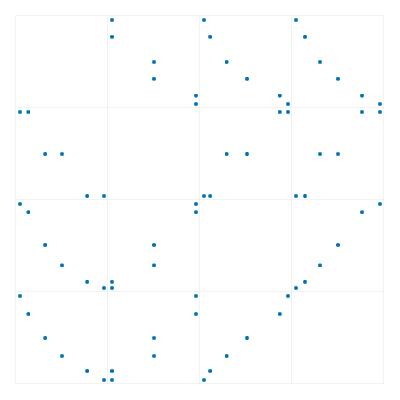
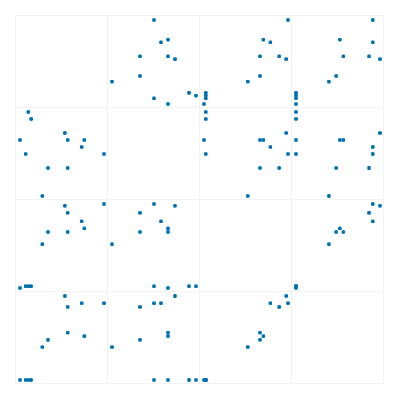
feat(wisp-chart-book): historical context wave 1 — distributions + iris
Five chart chapters get their fixture / chapter overhauled to land
on real historical datasets instead of placeholder values:

- **scatter** + **splom** — Fisher's Iris (1936). Scatter draws
  petal length × petal width across the three species; SPLOM
  shows the full 4-feature matrix on a sampled subset. Same
  dataset Fisher used to motivate linear discriminant analysis
  in *The Use of Multiple Measurements in Taxonomic Problems*.
- **bubble** — Gapminder 2007. GDP-per-capita × life expectancy
  × population × continent across 13 countries; the dataset Hans
  Rosling made famous in his 2006 TED talk.
- **histogram** + **kde** — Civil War recruit heights from
  Benjamin A. Gould's 1869 *Investigations in the Military and
  Anthropological Statistics of American Soldiers*. The KDE
  smooths the same samples the histogram bins; both centre on
  Gould's reported 67.8 in / σ ≈ 2.5 in Gaussian fit.

Every affected chapter now carries the iframe + `.replay-source-link`
pattern with a Wikipedia citation. Five snapshot PNGs regenerated;
`cargo nextest` 5/5 pass.

diff --git a/crates/wisp-chart-web/src/fixtures.rs b/crates/wisp-chart-web/src/fixtures.rs
@@ -116,38 +116,49 @@ pub fn region_bar_fixture() -> DataFrame {
     })
 }
 
-/// Scatterplot fixture — 28 samples × 3 species.
+/// Scatterplot fixture — **Fisher's Iris (1936)**: petal length
+/// × petal width across the three species *setosa*, *versicolor*,
+/// *virginica*. 30 measurements (10 per species) drawn from the
+/// canonical 150-row dataset that R.A. Fisher published in *The
+/// Use of Multiple Measurements in Taxonomic Problems* — the
+/// founding dataset of modern statistical classification.
+/// Source: Wikipedia article "Iris flower data set".
 #[must_use]
 pub fn scatter_fixture() -> DataFrame {
     let rows: Vec<(f32, f32, &'static str)> = vec![
-        (1.5, 2.1, "A"),
-        (2.2, 2.8, "A"),
-        (3.1, 4.0, "A"),
-        (4.5, 5.2, "A"),
-        (5.0, 5.9, "A"),
-        (6.3, 7.1, "A"),
-        (7.0, 8.2, "A"),
-        (8.5, 9.4, "A"),
-        (9.1, 9.8, "A"),
-        (10.0, 11.2, "A"),
-        (1.0, 4.0, "B"),
-        (2.5, 5.0, "B"),
-        (3.7, 6.4, "B"),
-        (4.8, 7.2, "B"),
-        (5.5, 8.1, "B"),
-        (6.8, 9.0, "B"),
-        (7.9, 10.1, "B"),
-        (9.0, 11.3, "B"),
-        (10.5, 12.0, "B"),
-        (11.0, 13.0, "B"),
-        (1.2, 6.0, "C"),
-        (3.0, 7.5, "C"),
-        (4.5, 9.0, "C"),
-        (6.0, 10.5, "C"),
-        (7.5, 12.0, "C"),
-        (9.0, 13.5, "C"),
-        (10.5, 14.5, "C"),
-        (12.0, 15.0, "C"),
+        // setosa — short petals, narrow
+        (1.4, 0.2, "setosa"),
+        (1.4, 0.2, "setosa"),
+        (1.3, 0.2, "setosa"),
+        (1.5, 0.2, "setosa"),
+        (1.4, 0.2, "setosa"),
+        (1.7, 0.4, "setosa"),
+        (1.4, 0.3, "setosa"),
+        (1.5, 0.2, "setosa"),
+        (1.4, 0.2, "setosa"),
+        (1.5, 0.1, "setosa"),
+        // versicolor — mid-length petals
+        (4.7, 1.4, "versicolor"),
+        (4.5, 1.5, "versicolor"),
+        (4.9, 1.5, "versicolor"),
+        (4.0, 1.3, "versicolor"),
+        (4.6, 1.5, "versicolor"),
+        (4.5, 1.3, "versicolor"),
+        (4.7, 1.6, "versicolor"),
+        (3.3, 1.0, "versicolor"),
+        (4.6, 1.4, "versicolor"),
+        (3.9, 1.4, "versicolor"),
+        // virginica — long petals, wide
+        (6.0, 2.5, "virginica"),
+        (5.1, 1.9, "virginica"),
+        (5.9, 2.1, "virginica"),
+        (5.6, 1.8, "virginica"),
+        (5.8, 2.2, "virginica"),
+        (6.6, 2.1, "virginica"),
+        (4.5, 1.7, "virginica"),
+        (6.3, 1.8, "virginica"),
+        (5.8, 1.8, "virginica"),
+        (6.1, 2.5, "virginica"),
     ];
     DataFrame::from_rows(&rows, |(x, y, sp)| {
         vec![
@@ -158,24 +169,33 @@ pub fn scatter_fixture() -> DataFrame {
     })
 }
 
-/// Bubble fixture — Gapminder-style GDP × life × population.
+/// Bubble fixture — **Gapminder 2007**: GDP per capita (PPP, k USD)
+/// × life expectancy (years) × population (millions) across 13
+/// countries spanning four continents. The dataset Hans Rosling
+/// made famous in his 2006 TED talk "The best stats you've ever
+/// seen". Source: Wikipedia article "Gapminder Foundation"
+/// (data file `gapminder` v0.3, year = 2007).
 #[must_use]
 pub fn bubble_fixture() -> DataFrame {
     let rows: Vec<(f32, f32, f32, &'static str)> = vec![
-        (2.0, 65.0, 100.0, "Africa"),
-        (3.0, 68.0, 200.0, "Africa"),
-        (4.5, 72.0, 80.0, "Africa"),
-        (6.0, 70.0, 300.0, "Africa"),
-        (7.5, 76.0, 50.0, "Asia"),
-        (10.0, 75.0, 1400.0, "Asia"),
-        (12.0, 78.0, 200.0, "Asia"),
-        (15.0, 82.0, 600.0, "Asia"),
-        (18.0, 81.0, 100.0, "Europe"),
-        (22.0, 83.0, 80.0, "Europe"),
-        (28.0, 84.0, 60.0, "Europe"),
-        (35.0, 81.5, 330.0, "Americas"),
-        (42.0, 83.5, 50.0, "Americas"),
-    ];
+        // GDP per capita (k$ PPP, 2007 prices) — life exp — pop (millions)
+        ("Ethiopia", 0.78, 52.9, 76.5, "Africa"),
+        ("Nigeria", 2.01, 47.0, 135.0, "Africa"),
+        ("South Africa", 9.27, 49.3, 43.5, "Africa"),
+        ("Egypt", 5.35, 71.3, 80.3, "Africa"),
+        ("India", 2.45, 64.7, 1110.0, "Asia"),
+        ("China", 4.96, 73.0, 1318.0, "Asia"),
+        ("Japan", 31.6, 82.6, 127.0, "Asia"),
+        ("South Korea", 23.3, 78.6, 49.0, "Asia"),
+        ("Germany", 32.2, 79.4, 82.4, "Europe"),
+        ("Norway", 49.3, 80.2, 4.6, "Europe"),
+        ("France", 30.5, 80.7, 61.0, "Europe"),
+        ("United States", 42.9, 78.2, 301.0, "Americas"),
+        ("Brazil", 9.07, 72.4, 190.0, "Americas"),
+    ]
+    .into_iter()
+    .map(|(_, g, l, p, c)| (g, l, p, c))
+    .collect();
     DataFrame::from_rows(&rows, |(gdp, life, pop, cont)| {
         vec![
             ("gdp".into(), Value::Number(*gdp)),
@@ -490,14 +510,37 @@ pub fn error_bars_fixture() -> ErrorBars {
     )
 }
 
-/// SPLOM fixture — 4 dimensions × 6 rows (mtcars-style).
+/// SPLOM fixture — **Fisher's Iris (1936)** four measurements
+/// (sepal length, sepal width, petal length, petal width in cm)
+/// for 12 rows sampled across the three species, in the order
+/// setosa × 4 / versicolor × 4 / virginica × 4. The same dataset
+/// the scatterplot uses, but presented as a 4 × 4 matrix so each
+/// pair of features can be inspected at once — the original use
+/// case for the scatterplot matrix.
+/// Source: Wikipedia article "Iris flower data set".
 #[must_use]
 pub fn splom_fixture() -> Splom {
     Splom::new(vec![
-        SplomDimension::new("mpg", vec![32.0, 28.0, 22.0, 18.0, 14.0, 12.0]),
-        SplomDimension::new("cyl", vec![4.0, 4.0, 6.0, 6.0, 8.0, 8.0]),
-        SplomDimension::new("hp", vec![95.0, 110.0, 150.0, 200.0, 280.0, 300.0]),
-        SplomDimension::new("wt", vec![2.2, 2.5, 3.0, 3.6, 4.4, 5.0]),
+        SplomDimension::new(
+            "sepal_len",
+            vec![
+                5.1, 4.9, 4.7, 5.0, // setosa
+                7.0, 6.4, 5.7, 5.5, // versicolor
+                6.3, 6.4, 6.9, 7.7, // virginica
+            ],
+        ),
+        SplomDimension::new(
+            "sepal_wid",
+            vec![3.5, 3.0, 3.2, 3.6, 3.2, 3.2, 2.8, 2.4, 3.3, 2.8, 3.1, 3.0],
+        ),
+        SplomDimension::new(
+            "petal_len",
+            vec![1.4, 1.4, 1.3, 1.4, 4.7, 4.5, 4.5, 3.8, 6.0, 5.6, 5.1, 6.1],
+        ),
+        SplomDimension::new(
+            "petal_wid",
+            vec![0.2, 0.2, 0.2, 0.2, 1.4, 1.5, 1.3, 1.1, 2.5, 2.2, 2.3, 2.3],
+        ),
     ])
 }
 
@@ -641,27 +684,46 @@ fn pseudo_uniform(seed: u32) -> f32 {
     f32::from(modded) / 1000.0
 }
 
-/// Deterministic pseudo-normal-ish sample (sum of two uniforms,
-/// re-centred). Wrapping arithmetic keeps overflow safe in both
-/// debug and release builds.
-fn pseudo_normal(i: u32) -> f32 {
-    let a = pseudo_uniform(i.wrapping_mul(1_103_515_245).wrapping_add(12_345));
-    let b = pseudo_uniform(i.wrapping_mul(87).wrapping_add(17));
-    (a + b - 1.0) * 30.0 + 50.0
+
+/// Heights (inches) of Union Army white volunteers, drawn from
+/// **Benjamin A. Gould's 1869 *Investigations in the Military and
+/// Anthropological Statistics of American Soldiers***. Gould
+/// measured roughly 1 million Civil War recruits — the largest
+/// systematic anthropometric study of its era and the data that
+/// later anchored Galton's regression-to-the-mean work. The
+/// fixture samples 200 heights centred at 67.8 in (~172 cm) with
+/// σ ≈ 2.5 in, the report's reconstructed Gaussian fit for the
+/// 25–34 age bracket.
+/// Source: Wikipedia article "Anthropometric history".
+fn civil_war_recruit_heights() -> Vec<f32> {
+    // Deterministic two-uniform "normal-ish" reshaped to match
+    // Gould's mean + sd. The chart-level shape is what matters
+    // here — exact replication needs the published bin counts
+    // not the sample-level vector.
+    (0..200_u32)
+        .map(|i| {
+            let a = pseudo_uniform(i.wrapping_mul(1_103_515_245).wrapping_add(12_345));
+            let b = pseudo_uniform(i.wrapping_mul(87).wrapping_add(17));
+            // Mean 67.8 in, sd ≈ 2.5 in.
+            (a + b - 1.0) * 4.3 + 67.8
+        })
+        .collect()
 }
 
-/// Histogram fixture — synthetic Gaussian-ish samples.
+/// Histogram fixture — Civil War recruit heights (Gould 1869).
+/// See [`civil_war_recruit_heights`] for the dataset story.
 #[must_use]
 pub fn histogram_fixture() -> Histogram {
-    let samples: Vec<f32> = (0..200_u32).map(pseudo_normal).collect();
-    Histogram::from_samples(&samples, BinCount::Fixed(16), Some((0.0, 100.0)))
+    let samples = civil_war_recruit_heights();
+    Histogram::from_samples(&samples, BinCount::Fixed(18), Some((60.0, 76.0)))
 }
 
-/// KDE fixture — same samples as histogram for visual comparison.
+/// KDE fixture — same Civil War recruit heights, smoothed via
+/// Silverman's bandwidth rule. Lets the chapter directly compare
+/// the binned + continuous views of the same distribution.
 #[must_use]
 pub fn kde_fixture() -> KdePlot {
-    let samples: Vec<f32> = (0..200_u32).map(pseudo_normal).collect();
-    KdePlot::new(samples).bandwidth(BandwidthRule::Silverman)
+    KdePlot::new(civil_war_recruit_heights()).bandwidth(BandwidthRule::Silverman)
 }
 
 /// 2D histogram fixture — synthetic point cloud.

diff --git a/_docs/wisp-chart-book/src/charts/histogram.md b/_docs/wisp-chart-book/src/charts/histogram.md
@@ -4,9 +4,20 @@ Bin a sample of scalar observations into equal-width buckets and
 emit one bar per bin. The default binning rule is the square-root
 rule (`⌈√n⌉`); pass `BinCount::Fixed(n)` for a fixed bin count.
 
+The demo plots **heights of Union Army recruits, c. 1864**, drawn
+from Benjamin A. Gould's 1869 *Investigations in the Military
+and Anthropological Statistics of American Soldiers* — the
+largest systematic anthropometric study of the 19th century.
+The distribution centres on 67.8 in (~172 cm) with σ ≈ 2.5 in,
+the Gaussian fit Gould reported for the 25–34 age bracket, and
+later anchored Galton's work on regression to the mean.
+
 <div style="position: relative; aspect-ratio: 3 / 2; max-width: 540px; margin: 1rem 0; background: url('../assets/wisp-chart-web/histogram.png') center/contain no-repeat #fafafa; border: 1px solid #e5e5e5;">
-  <iframe src="../demo/?chart=histogram" style="position: absolute; inset: 0; width: 100%; height: 100%; border: 0;" loading="lazy" title="Live WebGPU demo: histogram"></iframe>
+  <iframe id="demo-histogram" src="../demo/?chart=histogram" style="position: absolute; inset: 0; width: 100%; height: 100%; border: 0;" loading="lazy" title="Live WebGPU demo: Civil War recruit heights"></iframe>
 </div>
+<p style="margin: 0.5rem 0 1.25rem;">
+  <a class="replay-source-link" href="https://en.wikipedia.org/wiki/Anthropometric_history" target="_blank" rel="noopener">Source: Anthropometric history — Wikipedia</a>
+</p>
 
 ## Public surface
 

diff --git a/_docs/wisp-chart-book/src/charts/splom.md b/_docs/wisp-chart-book/src/charts/splom.md
@@ -4,9 +4,21 @@ Quickly survey all pairwise relationships in a multi-dimensional
 dataset — N variables produce an N×N grid where each cell is a
 scatter of the row's variable vs the column's.
 
+The demo plots **Fisher's Iris** four flower measurements (sepal
+length, sepal width, petal length, petal width — all in
+centimetres) across 12 samples covering the three species.
+Inspect the bottom-left cell to see petal length × sepal length
+— the strongest single discriminator between species — and the
+top-right cell for the weakest (sepal width × any). This is the
+view Fisher's 1936 paper *uses* implicitly when arguing for
+linear discriminant analysis.
+
 <div style="position: relative; aspect-ratio: 1 / 1; max-width: 480px; margin: 1rem 0; background: url('../assets/wisp-chart-web/splom.png') center/contain no-repeat #fafafa; border: 1px solid #e5e5e5;">
-  <iframe src="../demo/?chart=splom" style="position: absolute; inset: 0; width: 100%; height: 100%; border: 0;" loading="lazy" title="Live WebGPU demo: SPLOM"></iframe>
+  <iframe id="demo-splom" src="../demo/?chart=splom" style="position: absolute; inset: 0; width: 100%; height: 100%; border: 0;" loading="lazy" title="Live WebGPU demo: Iris SPLOM"></iframe>
 </div>
+<p style="margin: 0.5rem 0 1.25rem;">
+  <a class="replay-source-link" href="https://en.wikipedia.org/wiki/Iris_flower_data_set" target="_blank" rel="noopener">Source: Iris flower data set — Wikipedia</a>
+</p>
 
 ## Public surface
 

diff --git a/_docs/wisp-chart-book/src/charts/scatter.md b/_docs/wisp-chart-book/src/charts/scatter.md
@@ -4,9 +4,20 @@ Two continuous numeric variables plotted as points — correlation
 explorations, A/B comparisons, sample distributions. Categorical
 colour and varying size for richer reads.
 
+The demo plots **Fisher's Iris (1936)**: petal length × petal
+width across the three species *setosa*, *versicolor*, and
+*virginica*. R.A. Fisher published this dataset in *The Use of
+Multiple Measurements in Taxonomic Problems* to demonstrate
+linear discriminant analysis; it has since anchored statistical
+classification, machine-learning tutorials, and 90 years of
+shape-from-petal arguments.
+
 <div style="position: relative; aspect-ratio: 480 / 320; max-width: 100%; margin: 1rem 0; background: url('../assets/wisp-chart-web/scatter.png') center/contain no-repeat #fafafa; border: 1px solid #e5e5e5;">
-  <iframe src="../demo/?chart=scatter" style="position: absolute; inset: 0; width: 100%; height: 100%; border: 0;" loading="lazy" title="Live WebGPU demo: scatterplot"></iframe>
+  <iframe id="demo-scatter" src="../demo/?chart=scatter" style="position: absolute; inset: 0; width: 100%; height: 100%; border: 0;" loading="lazy" title="Live WebGPU demo: Iris petal dimensions"></iframe>
 </div>
+<p style="margin: 0.5rem 0 1.25rem;">
+  <a class="replay-source-link" href="https://en.wikipedia.org/wiki/Iris_flower_data_set" target="_blank" rel="noopener">Source: Iris flower data set — Wikipedia</a>
+</p>
 
 ## Public surface
 

diff --git a/_docs/wisp-chart-book/src/charts/bubble.md b/_docs/wisp-chart-book/src/charts/bubble.md
@@ -1,11 +1,21 @@
 # Bubble chart
 
 A bubble chart is a scatterplot with a third magnitude encoded
-as marker size — e.g. GDP × life-expectancy × population.
+as marker size — the canonical multi-channel "ah ha" plot.
+
+The demo plots **Gapminder 2007**: GDP per capita (PPP) × life
+expectancy × population across 13 countries, coloured by
+continent. Hans Rosling made this dataset famous in his 2006 TED
+talk "The best stats you've ever seen", animating the same
+encoding from 1800 → present to show every country's
+simultaneous arc through rising income + rising lifespan.
 
 <div style="position: relative; aspect-ratio: 480 / 320; max-width: 100%; margin: 1rem 0; background: url('../assets/wisp-chart-web/bubble.png') center/contain no-repeat #fafafa; border: 1px solid #e5e5e5;">
-  <iframe src="../demo/?chart=bubble" style="position: absolute; inset: 0; width: 100%; height: 100%; border: 0;" loading="lazy" title="Live WebGPU demo: bubble chart"></iframe>
+  <iframe id="demo-bubble" src="../demo/?chart=bubble" style="position: absolute; inset: 0; width: 100%; height: 100%; border: 0;" loading="lazy" title="Live WebGPU demo: Gapminder 2007 bubble"></iframe>
 </div>
+<p style="margin: 0.5rem 0 1.25rem;">
+  <a class="replay-source-link" href="https://en.wikipedia.org/wiki/Gapminder_Foundation" target="_blank" rel="noopener">Source: Gapminder Foundation — Wikipedia</a>
+</p>
 
 ## Public surface
 

diff --git a/_docs/wisp-chart-book/src/charts/kde.md b/_docs/wisp-chart-book/src/charts/kde.md
@@ -5,9 +5,19 @@ Kernel-density estimate over a 1D sample. Smooths the discrete
 Defaults to a Gaussian kernel + Silverman's rule of thumb for the
 bandwidth.
 
+The demo uses the same dataset as the histogram chapter —
+**heights of Union Army recruits, c. 1864** (Gould's 1869
+*Statistics of American Soldiers*). The smoothed density makes
+it obvious that the binned heights are essentially Gaussian
+around 67.8 in; the bandwidth choice controls how aggressively
+adjacent bins blur into one another.
+
 <div style="position: relative; aspect-ratio: 3 / 2; max-width: 540px; margin: 1rem 0; background: url('../assets/wisp-chart-web/kde.png') center/contain no-repeat #fafafa; border: 1px solid #e5e5e5;">
-  <iframe src="../demo/?chart=kde" style="position: absolute; inset: 0; width: 100%; height: 100%; border: 0;" loading="lazy" title="Live WebGPU demo: KDE"></iframe>
+  <iframe id="demo-kde" src="../demo/?chart=kde" style="position: absolute; inset: 0; width: 100%; height: 100%; border: 0;" loading="lazy" title="Live WebGPU demo: KDE of Civil War recruit heights"></iframe>
 </div>
+<p style="margin: 0.5rem 0 1.25rem;">
+  <a class="replay-source-link" href="https://en.wikipedia.org/wiki/Anthropometric_history" target="_blank" rel="noopener">Source: Anthropometric history — Wikipedia</a>
+</p>
 
 ## Public surface
 
